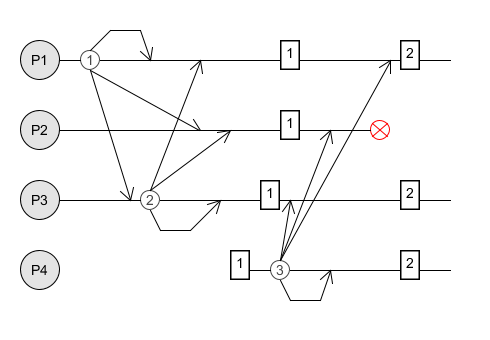
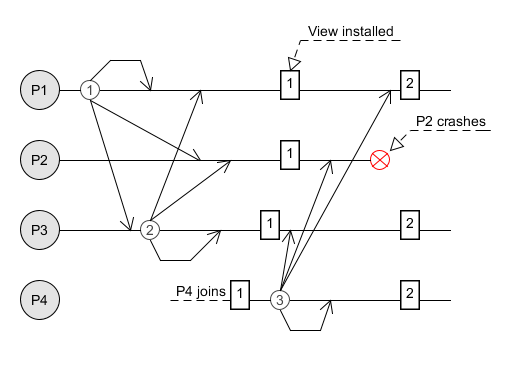
Completion of the "protocol" section

diff --git a/Docs/Report.md b/Docs/Report.md
@@ -20,13 +20,34 @@ A view is nothing but a "list" of the processes part of the current group.
 
 Each time a process joins or leaves (either voluntarily or due to a crash) the group, all the participants **install** a new view and take care of the <u>unstable</u> messages.
 
-**Note**: message cannot cross epochs. This means that a message sent before a new view install must be delivered before the receiver installs the new view.
+**Note**: messages cannot cross epochs. This means that a message sent before a new view install must be delivered before the receiver installs the new view.
 
 ![](images/viewChange.png)
 
-//stable messages
+### 2.2 - Message stability
 
-//flush messages
+Multicast is implemented as a sequence of unicast messages and can fail only when the sender crashes before transmitting all the messages.
+
+To avoid related issues, each member of the group keeps a copy of the message until every process has it. When this happens, the message becomes **stable**.
+
+The sender announces the message stability by sending a second message to all the recipients.
+
+![](images/messageStability.png)
+
+In the image above, the red arrow signal the message stability.
+
+### 2.3 - Flush messages
+
+Before a view change, all the group participants must:
+
+1. **not** send new multicast messages;
+2. send all the <u>unstable</u> messages to all the other processes in the new view (the leavers and the entities crashed will not receive this message);
+3. send a **flush** message that signals the end of the transmission;
+4. once a process receives a flush message from **all** the others, it can install the new view and resume its normal functioning.
+
+![](images/flush.png)
+
+*In the fourth panel, the new view.*
 
 ##3 - Classes
 
@@ -42,8 +63,11 @@ Each time a process joins or leaves (either voluntarily or due to a crash) the g
 
 ###3.3 - Messages
 #####AssignId
+#####CanSendHeartbeat
 #####ChangeView
+#####CrashDetected
 #####GenericMessage
+#####Heartbeat
 #####JoinRequest
 #####Message
 
